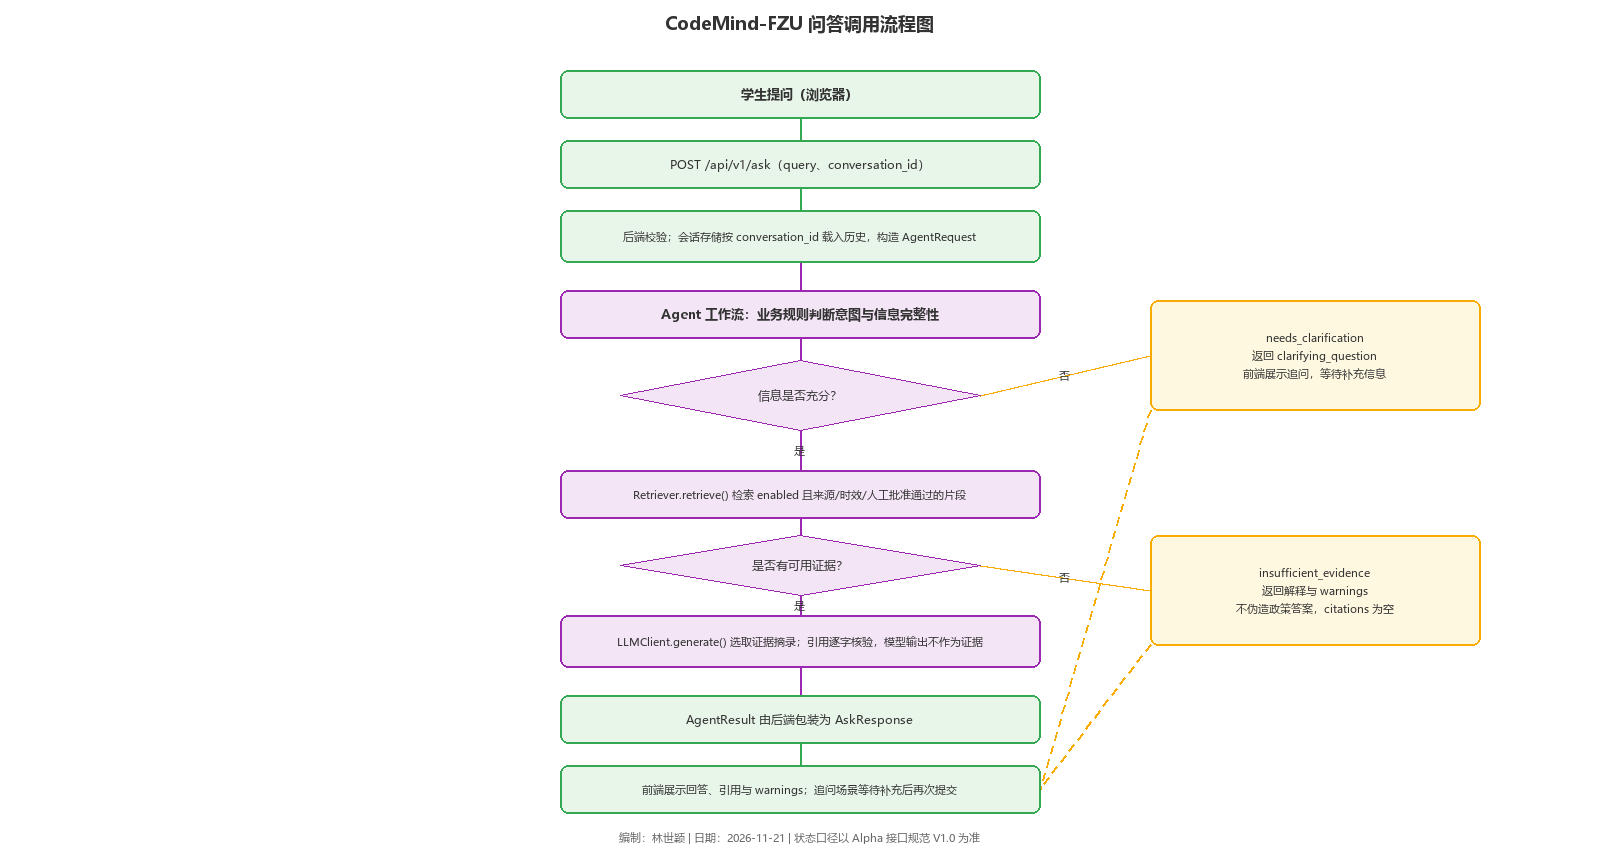
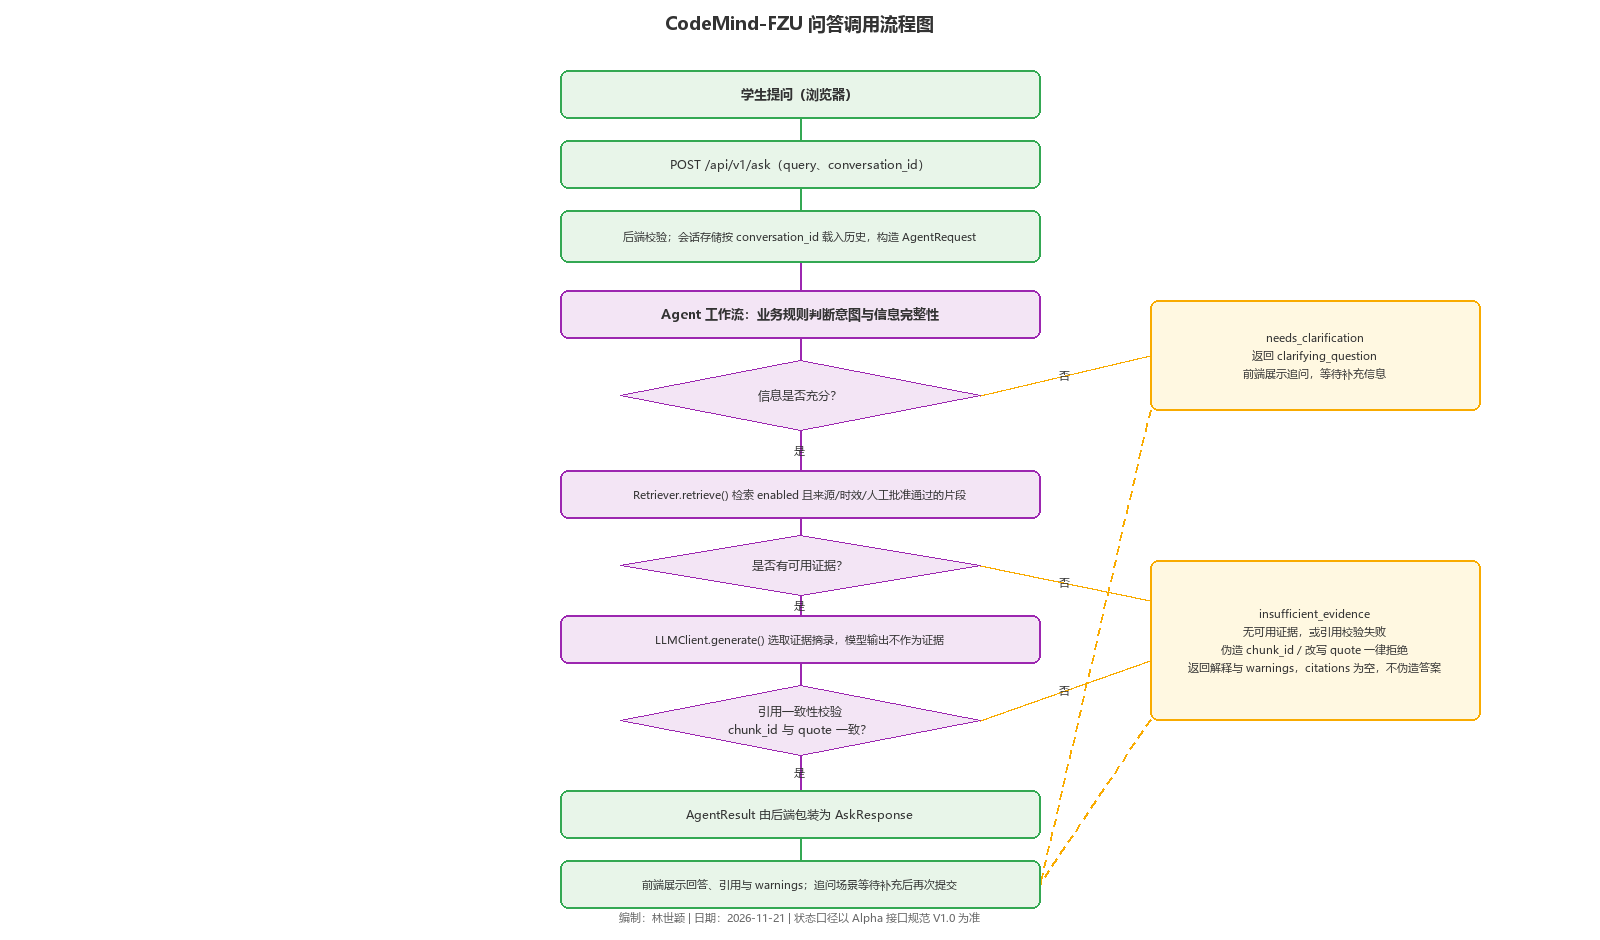
docs(alpha): 按复审意见修订架构图与模块依赖说明

diff --git a/docs/assignment-03/alpha/architecture/架构说明与模块依赖_林世颖.md b/docs/assignment-03/alpha/architecture/架构说明与模块依赖_林世颖.md
@@ -16,36 +16,36 @@
 
 | 模块 | 代码位置 | 职责与当前边界 |
 | --- | --- | --- |
-| FastAPI 应用骨架 | `backend/app/main.py` | 提供 `/api/v1/health` 与 `/api/v1/ask` 契约入口；CORS、请求 ID、统一错误信封；Agent 与 LLM 客户端注入点。Agent 未注入时问答接口返回 `503 SERVICE_NOT_CONFIGURED`，不伪造模型回答 |
+| FastAPI 应用骨架 | `backend/app/main.py` | 提供 `/api/v1/health` 与 `/api/v1/ask` 契约入口；CORS、请求 ID、统一错误信封；Agent 与 LLM 客户端注入点。Agent 未注入时问答接口返回服务未配置错误，不伪造模型回答 |
 | Alpha 运行时装配入口 | `backend/app/alpha.py` | `create_alpha_app()` 在 lifespan 中构建真实运行时；运行时不可用时降级为 `UnavailableAgentService`，不产生伪造回答 |
 | 本地开发入口 | `backend/app/dev.py` | 组装应用并注入 `MockAgentService`，仅用于本地演示 |
 | 应用配置 | `backend/app/config.py` | 读取环境变量，提供 CORS 来源、方法与请求头配置 |
 | 公共数据模型 | `backend/contracts/models.py` | Pydantic v2 公共 DTO 与状态枚举，是前后端与各模块的单一事实来源；含 `ConversationTurn`、`DocumentMetadata` 时效/适用字段及来源、时效、检索状态枚举 |
 | 模块协议边界 | `backend/contracts/protocols.py` | 定义 `AgentService`、`Retriever`、`DocumentParser`、`KnowledgeIndexer`、`LLMClient`、`DocumentAdminService` 六个 Protocol |
 | Mock Agent 服务 | `backend/services/mock_agent.py` | 演示问答三种状态 `answered`、`needs_clarification`、`insufficient_evidence` 的返回结构 |
-| Agent 工作流与工厂 | `backend/services/agent_workflow.py` | `AgentWorkflow` 实现 `AgentService.run()`：追问规则、信息完整性与个人化槽位判断、证据资格门槛、同文档多版本冲突校验、引用逐字核验；`create_alpha_workflow()` 工厂组装本地检索、业务回调与 Qwen 适配器，并做已审核资料完整性与人工批准门禁；不持久化会话，不直连模型 |
-| Alpha 运行时与内存会话 | `backend/services/alpha_runtime.py` | `AlphaRuntime` 组装真实服务；`InMemoryConversationStore` 按 `conversation_id` 隔离、维护有界历史并做空闲清理与淘汰；`ConversationAgentService` 包装并注入 `history`；`UnavailableAgentService` 作为不可用兜底 |
+| Agent 工作流与引用核验 | `backend/services/agent_workflow.py` | `AgentWorkflow` 实现 `AgentService.run()`：追问规则、信息完整性与个人化槽位判断、证据资格门槛、同文档多版本冲突校验、`chunk_id`/`quote` 逐字引用核验；`create_alpha_workflow()` 工厂组装本地检索、业务回调与 Qwen 适配器，并做已审核资料完整性与人工批准门禁；不持久化会话，不直连模型 |
+| 运行时装配与内存会话 | `backend/services/alpha_runtime.py` | `AlphaRuntime` 组装检索、规则与模型服务；`InMemoryConversationStore` 按 `conversation_id` 隔离、维护有界历史并做空闲清理与淘汰；`ConversationAgentService` 包装并注入 `history`；`UnavailableAgentService` 作为不可用兜底 |
 | 业务规则模块 | `backend/services/alpha_business_rules.py` | 三场景追问规则 `alpha_clarification_rule` 与证据适用性回调 `alpha_evidence_check` / `build_from_retriever`；绑定只读元数据与片段查询；规则模块缺失按配置错误处理，不静默回退演示规则 |
 | 本地检索与内存索引 | `backend/retrieval/local.py` | `LocalBM25Retriever` 实现 `Retriever.retrieve()`，BM25 中文二元分词检索并支持内存入库；只暴露 `enabled` 状态片段，含文件哈希与可用性校验；无持久化存储、不接数据库 |
-| 已审核资料加载器 | `backend/retrieval/alpha_corpus.py` | `load_approved_alpha_retriever()` 统一加载已审核资料包并生成加载报告；做人工批准门禁、路径与符号链接安全校验、重复版本校验；资料包未就位或完整性不通过时不启用正式检索 |
-| Qwen 模型适配器 | `backend/services/qwen_client.py` | 实现 `LLMClient` 协议，包含超时、重试、限流与错误映射；API Key 仅从环境变量读取；尚未接入真实付费模型调用 |
+| 资料加载与审核门禁 | `backend/retrieval/alpha_corpus.py` | `load_approved_alpha_retriever()` 统一加载已审核资料包并生成完整性报告；人工批准门禁、路径与符号链接安全校验、重复版本校验；资料包未就位或完整性不通过时不启用正式检索 |
+| Qwen 模型适配器 | `backend/services/qwen_client.py` | 实现 `LLMClient` 协议，基于 httpx 完成真实 OpenAI 兼容 HTTP 调用适配，含超时、重试、限流与状态码错误映射，并通过 `create_qwen_client_from_env()` 接入 Alpha Runtime；API Key 仅从环境变量读取；真实 API 凭据配置与在线付费调用验收尚未完成 |
 | 服务错误体系 | `backend/services/errors.py` | 定义服务错误类型与公共错误码映射 |
 | 文档解析器 | `backend/document_processing/parser.py` | 实现 `DocumentParser`，支持 Markdown/TXT 解析与切片；不联网、不写库、不建索引、不开放检索；解析包默认 `retrieval_status=blocked` |
 | 学生端前端 | `frontend/src/student/main.ts`、`src/shared/api.ts`、`src/shared/types.ts` | Vite + 原生 TypeScript 多页面工程；健康检查、问答提交（`query`、`conversation_id`）、三状态与引用渲染、追问展示、话题快捷填充；反馈按钮仅本地标记，无上报接口 |
 | 管理端前端 | `frontend/src/admin/main.ts`、`filters.ts`、`render.ts`、`mock.ts`、`status.ts`、`validate.ts` | 管理概览与资料管理页面：列表、筛选、详情、编辑、上传与重索引弹窗；先调用真实管理 API，失败时降级前端模拟数据；写操作失败如实报错，演示模式明确标注未写库 |
-| 测试 | `tests/` | 覆盖后端运行时、接口契约、Mock Agent、Qwen 客户端、文档解析、Agent 工作流、业务规则、本地检索与已审核资料加载 |
+| 测试 | `tests/` | 覆盖后端运行时、接口契约、Mock Agent、Qwen 适配、文档解析、Agent 工作流、业务规则、本地检索、已审核资料加载与 E2E 端到端链路 |
 
 ### 2.2 仅契约 / 尚未实现
 
 | 模块 | 契约依据 | 当前状态 |
 | --- | --- | --- |
 | 管理后端服务与管理 API | `DocumentAdminService` 与管理 API | 管理端页面已对接，但列表、详情、导入、重索引对应的后端服务与管理 HTTP 接口尚未实现，当前由前端模拟数据兜底 |
-| 真实 LLM 付费调用 | `LLMClient.generate()` | 适配器仅完成协议适配与离线测试，API Key 未配置、未接通真实付费模型 |
+| 真实模型在线调用验收 | `LLMClient.generate()` | HTTP 适配已实现；API 凭据（`QWEN_API_KEY`）配置与真实付费在线调用验收尚未完成；真实 Qwen 集成测试需双开关启用，当前跳过 |
 | 关系数据库 / ORM 持久化 | 数据模型与候选基线 | 未引入 SQLAlchemy 与数据库驱动；PostgreSQL 16 与 SQLAlchemy 2.0 为候选技术基线，实际数据库部署与 ORM 在线接入尚未完成，当前检索为内存索引、会话为内存存储 |
 | 向量 / 全文持久化索引 | `Retriever` 与索引约定 | 持久化索引、嵌入模型与部署方案待定；当前仅本地 BM25 内存检索 |
 | 持久化入库与索引链路 | `KnowledgeIndexer.index_document()` | 文档包持久化入库、片段索引与索引结果回写尚未实现；内存入库仅用于本地检索演示 |
 | 对话历史持久化与跨会话恢复 | `AgentRequest.history` | 契约已定义历史消息结构；当前由服务端内存会话维护有界历史，尚未落库，也不支持跨会话恢复 |
-| 认证授权 | 安全边界约定 | 尚未接入；管理 API 在鉴权完成前仅限本地或受控测试环境使用 |
+| 认证授权 | 安全边界约定 | 尚未接入；目标架构规划 RBAC 登录鉴权与角色权限；管理 API 鉴权完成前仅限本地或受控测试环境使用 |
 | 知识库资料入库核验与格式解析 | 资料状态约定 | 候选资料已收集，`approved/` 目录当前仅有说明文件；正式资料未完成人工核验签核、未开放检索，默认 `blocked` / `review_only`；PDF/DOCX/OCR 解析待完成 |
 
 ## 3. 当前系统实际架构
@@ -54,11 +54,11 @@
 
 当前 main 分支的可运行部分集中在后端骨架、公共契约、已落地的 Agent 工作流与运行时、业务规则、本地检索与已审核资料加载器、Mock 与适配器、本地文档解析器及配套测试：
 
-1. 学生端已落地 Vite + 原生 TypeScript 工程与问答联调页，可通过 `/api/v1/health`、`/api/v1/ask` 与后端契约入口联调；管理端页面已落地概览与资料管理交互，真实管理 API 不可用时降级前端模拟数据。反馈上报、历史对话持久化仍待开发。
+1. 学生端已落地 Vite + 原生 TypeScript 工程与问答联调页，可通过 `/api/v1/health`、`/api/v1/ask` 与后端契约入口联调；管理端页面已落地概览与资料管理交互，但管理后端 API 尚未实现，真实 API 不可用时降级前端模拟数据。反馈上报、历史对话持久化仍待开发。
 2. FastAPI 骨架提供健康检查与问答契约入口，统一处理请求校验、请求 ID、CORS 与错误信封；Alpha 运行时在 lifespan 中构建，运行时或正式资料不可用时降级为不可用服务，不产生伪造回答。
 3. 公共契约层由 `models.py` 与 `protocols.py` 构成，已落地的服务适配器、Agent 工作流、业务规则与本地检索均遵守其中的类型与协议边界。
-4. 已落地服务包括 Mock Agent、Agent 工作流与工厂、Alpha 运行时与内存会话、业务规则、本地 BM25 检索与内存索引、已审核资料加载器、Qwen 适配器、文档解析器与错误体系；其中 Qwen 适配器与文档解析器均只完成协议适配或本地解析，未接通真实模型调用、持久化入库、持久化索引与检索开放。
-5. 管理后端服务与管理 API、真实模型付费调用、数据库在线接入、持久化索引、会话历史持久化与跨会话恢复、认证授权目前仅保留协议或接口约定，图中以虚线框标注。
+4. 已落地服务包括 Mock Agent、Agent 工作流与工厂、Alpha 运行时与内存会话、业务规则、本地 BM25 检索与内存索引、已审核资料加载器、Qwen 适配器、文档解析器与错误体系；其中 Qwen 适配器与文档解析器分别完成 HTTP 协议适配与本地解析，真实付费在线验收、持久化入库、持久化索引与检索开放尚未完成。
+5. 管理后端服务与管理 API、真实模型在线调用验收、数据库在线接入、持久化索引、会话历史持久化与跨会话恢复、认证授权目前仅保留协议或接口约定，图中以虚线框标注。
 
 ## 4. 目标系统架构
 
@@ -70,7 +70,7 @@ Alpha 目标分层与调用方向如下：
 2. FastAPI 后端完成请求校验、ID 管理、Agent 调用入口与错误处理，不直接编排业务规则。
 3. Agent 工作流内部包含业务规则配置、Retriever 检索与 LLMClient 模型适配三个协作部分。
 4. 数据资源层包括关系数据库（含会话历史落库）、向量/全文检索索引与知识库资料文件；嵌入模型与检索部署方案尚未最终确定。
-5. 后台管理端通过管理服务链路对接文档解析与入库索引，负责资料列表、详情、元数据维护、导入与重索引。
+5. 后台管理端通过管理服务链路对接文档解析与入库索引，负责资料列表、详情、元数据维护、导入与重索引；管理访问经认证授权（RBAC 登录鉴权与角色权限）控制，该模块属于后续建设内容。
 
 后端与 Agent、Agent 与检索/模型之间使用 Python 类型化接口；浏览器与后端之间使用 HTTP/JSON，内部调用不额外引入 HTTP 服务。
 
@@ -97,10 +97,13 @@ Alpha 目标分层与调用方向如下：
 | PATCH | `/api/v1/admin/documents/{document_id}` | 修改允许维护的元数据 |
 | POST | `/api/v1/admin/documents/{document_id}/reindex` | 重新构建索引 |
 
-状态口径：
+状态与错误码口径：
 
 - 问答状态 `status`：`answered`、`needs_clarification`、`insufficient_evidence`。
 - 回答用途 `answer_mode`：`current_policy`、`historical`、`procedure_reference`、`insufficient_data`。
+- `503 SERVICE_NOT_CONFIGURED`：Agent 未注入、模型适配器缺配置或 runtime 装配缺组件。
+- `503 KNOWLEDGE_BASE_UNAVAILABLE`：正式知识库缺失、为空、未审核或加载失败，无法形成可用索引。
+- 其他模型侧错误码：`504 MODEL_TIMEOUT`、`503/502 MODEL_UNAVAILABLE`、`429 RATE_LIMITED`。
 - 检索器默认只返回 `retrieval_status=enabled` 的片段；没有符合条件的证据时返回空列表，不返回 blocked 资料作为正式政策依据。
 - 工作流证据门槛要求片段来源已核验、时效为当前、人工批准标记一致，并与元数据逐项核对；索引完成不自动开放检索。
 
@@ -113,8 +116,9 @@ Alpha 目标分层与调用方向如下：
 3. Agent 进行意图识别与信息完整性判断：信息不充分时，返回 `needs_clarification` 与 `clarifying_question`，前端展示追问并等待用户补充后再次提交。
 4. 信息充分时，Agent 调用 `Retriever.retrieve()` 检索处于 `enabled` 状态、且来源/时效/人工批准通过的片段。
 5. 检索结果中没有可用证据时，返回 `insufficient_evidence`，附带解释与 `warnings`，`citations` 为空，不伪造政策答案。
-6. 存在可用证据时，Agent 调用 `LLMClient.generate()` 选取证据摘录；模型输出不作为证据，引用只能来自检索返回并被本次回答实际采用的片段，并经过逐字核验。
-7. `AgentResult` 由后端包装为 `AskResponse` 返回前端；前端展示回答、引用与 warnings。
+6. 存在可用证据时，Agent 调用 `LLMClient.generate()` 选取证据摘录；模型输出不作为证据。
+7. 引用一致性校验：模型返回的 `chunk_id` 必须存在于本次检索结果中，`quote` 必须等于该片段完整原文；校验失败（伪造 `chunk_id` 或改写 `quote`）一律返回 `insufficient_evidence`，`citations` 为空，不生成正式回答（warning `UNSUPPORTED_GENERATION`）。
+8. 校验通过后，`AgentResult` 由后端包装为 `AskResponse` 返回前端；前端展示回答、引用与 warnings。
 
 ## 7. 设计约束与边界
 
@@ -144,5 +148,12 @@ Alpha 目标分层与调用方向如下：
 
 ## 9. 测试与核对记录
 
-- `tests/` 目录覆盖后端运行时、接口契约、Mock Agent、Qwen 客户端、文档解析、Agent 工作流、业务规则、本地检索与已审核资料加载。
-- 测试记录见 `docs/assignment-03/alpha/test-results.json`：153 项运行，152 项通过，0 失败，1 项因当前系统账户不允许创建符号链接而跳过；解析通过不代表已完成政策核验、入库或检索接入。
+- `tests/` 目录覆盖后端运行时、接口契约、Mock Agent、Qwen 适配、文档解析、Agent 工作流、业务规则、本地检索、已审核资料加载与 E2E 端到端链路。
+- 测试记录见 `docs/assignment-03/alpha/test-results.json`：**262 项运行，235 项通过，0 失败，0 错误，27 项跳过**；该数字为 `python -m scripts.check_document_processing` 按全仓库 `unittest` 收集执行的口径。仓库内部分用例以 pytest 风格编写（参数化、`anyio` 异步用例），pytest 全量计数见 #38 提交记录与端到端测试报告，unittest 与 pytest 两套口径不可混用。
+- 跳过项包括：真实 Qwen 集成测试（需同时配置 `QWEN_API_KEY` 与 `RUN_LIVE_QWEN_TESTS=1` 双开关）、上游规则/检索集成脚本类用例，以及当前系统账户不允许创建符号链接的用例。
+- E2E 测试 `tests/test_alpha_e2e.py`（PR #38）按三类口径区分，统计时不得混淆：
+  - Mock 全替身：其余 `test_*.py`，所有外部协作者均为离线替身；
+  - 真实资料 + Mock Qwen：官方 fixture / 合成资料 + 真实 `LocalBM25Retriever` + 真实业务规则 + Mock Qwen，即 `AlphaE2ETests`、`AlphaE2EMultiTurnTests`（T1–T10 正式入口链路）；
+  - 真实 Qwen 集成：真实 Retriever + 真实 Qwen API，双开关未启用时跳过；
+  - 契约门槛测试 `AlphaContractGateTests` 在 Pydantic 契约层校验来源核验门槛，不计入端到端统计。
+- 测试夹具资料不代表任何真实政策已经人工核验；真实核验资料就绪前，`answered` 验收仍属阻塞项，报告如实标注，不降低生产审核门槛。
